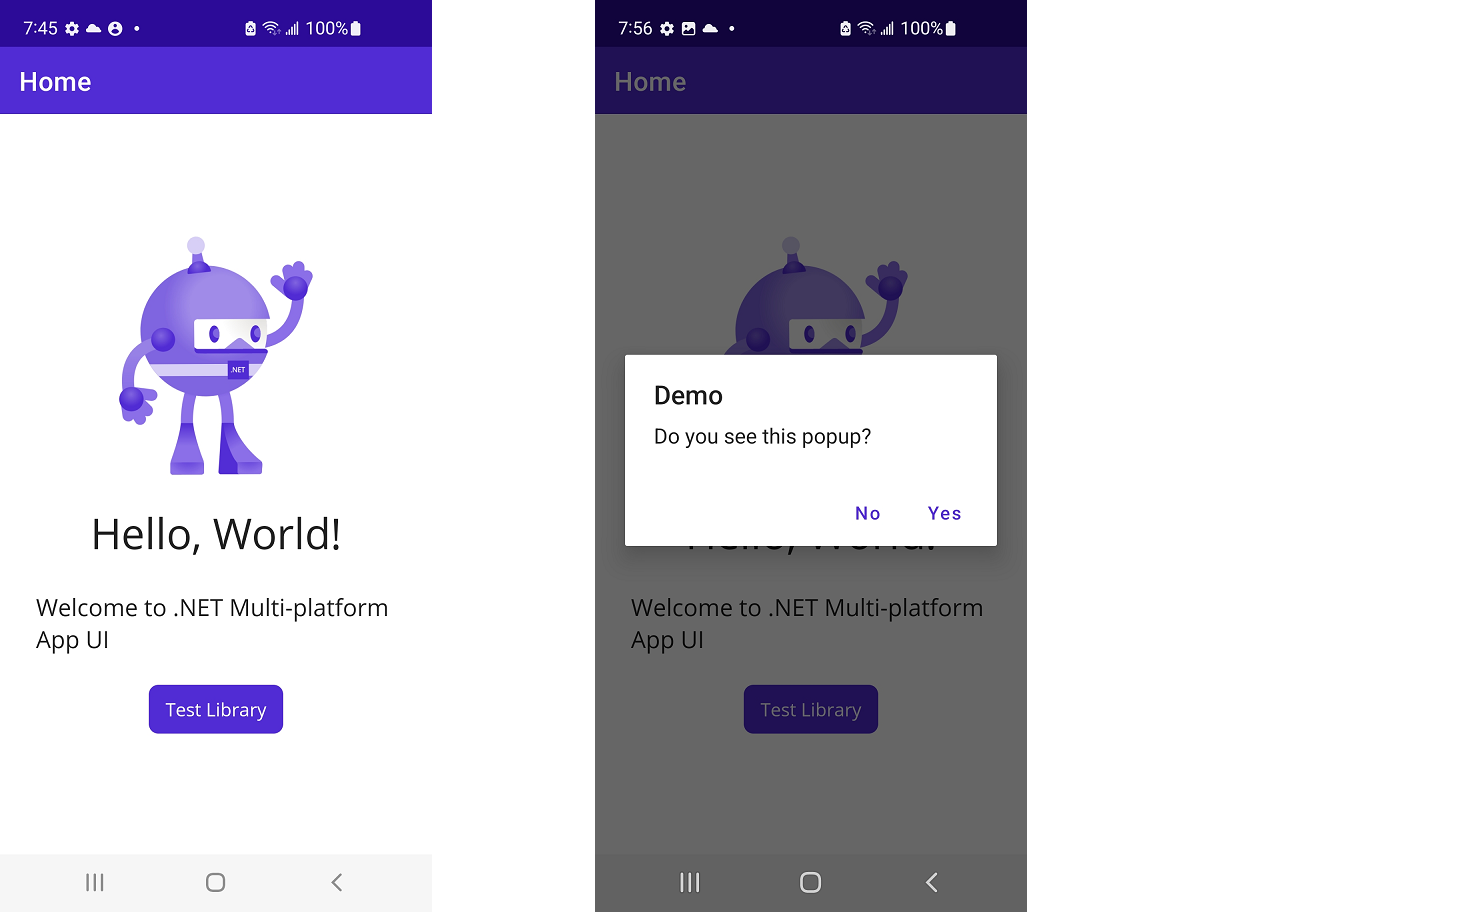
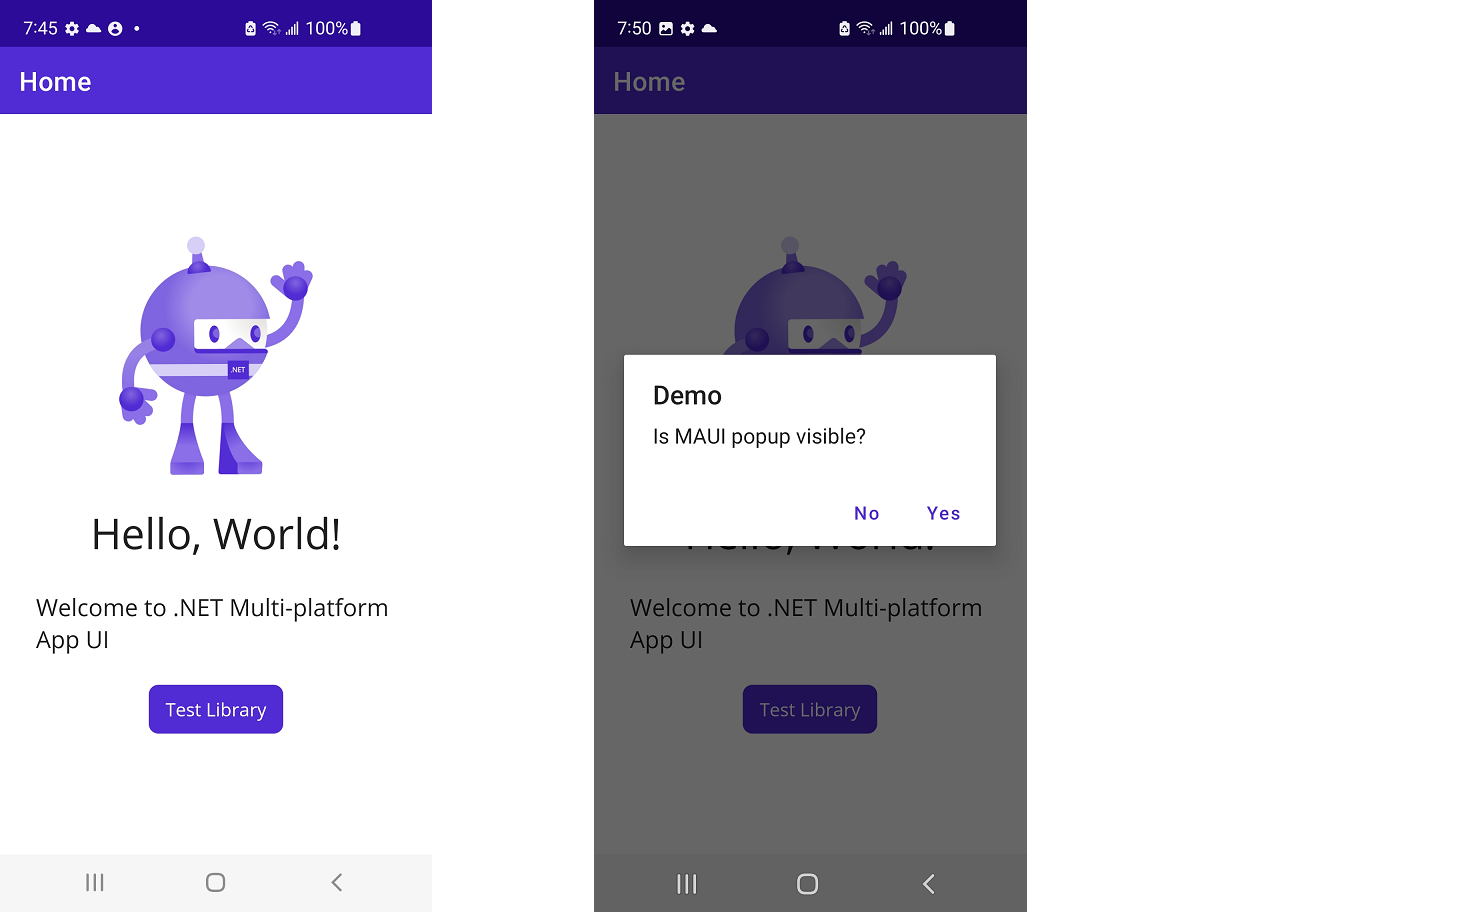
Sync readme with SO

diff --git a/net6-portable-library/BusinessLogic.cs b/net6-portable-library/BusinessLogic.cs
@@ -1,22 +1,30 @@
-using System;
-using System.Collections.Generic;
-using System.Diagnostics;
-using System.Text;
-using System.Threading.Tasks;
+    using System.Diagnostics;
+    using System.Threading.Tasks;
 
-namespace net6_portable_library
-{
-    public abstract class BusinessLogic
+    namespace net6_portable_library
     {
-        protected abstract Task<bool> DisplayAlert(string title, string message, string accept, string cancel);
-        public async Task<bool> TestPopup()
+        public enum RuntimePlatform
         {
-            bool result = await DisplayAlert(
-                title: "Demo", 
-                message: "Do you see this popup?", accept: "Yes", cancel: "No");
+            WinOS,
+            Android,
+            iOS,
+            Web,
+            MAUI,
+        }
+        public abstract class BusinessLogic
+        {
 
-            Debug.WriteLine($"Dialog returned {result}");
-            return result;
+            public BusinessLogic(RuntimePlatform platform) => RuntimePlatform = platform;
+            protected abstract Task<bool> DisplayAlert(string title, string message, string accept, string cancel);
+            public async Task<bool> TestPopup()
+            {
+                bool result = await DisplayAlert(
+                    title: "Demo", 
+                    message: $"Is {RuntimePlatform} popup visible?", accept: "Yes", cancel: "No");
+
+                Debug.WriteLine($"Dialog returned {result}");
+                return result;
+            }
+            public RuntimePlatform RuntimePlatform { get; }
         }
     }
-}

diff --git a/maui-client-of-portable-library/MainPage.xaml.cs b/maui-client-of-portable-library/MainPage.xaml.cs
@@ -11,7 +11,7 @@ namespace maui_client_of_portable_library
             InitializeComponent();
         }
         // Consume library
-        BusinessLogic _lib = new PlatformBusinessLogic();
+        BusinessLogic _lib = new PlatformBusinessLogic(RuntimePlatform.MAUI);
 
         private void onClickTestLibrary(object sender, EventArgs e)
         {
@@ -20,6 +20,8 @@ namespace maui_client_of_portable_library
     }
     class PlatformBusinessLogic : BusinessLogic
     {
+        public PlatformBusinessLogic(RuntimePlatform platform) : base(platform) { }
+
         protected override async Task<bool> DisplayAlert(string title, string message, string accept, string cancel)
         {
             return await Shell.Current.CurrentPage.DisplayAlert(title, message, accept, cancel);

diff --git a/platform-client-of-portable-library.WinForms/MainForm.cs b/platform-client-of-portable-library.WinForms/MainForm.cs
@@ -17,10 +17,12 @@ namespace platform_client_of_portable_library.WinForms
             _ = _lib.TestPopup();
         }
         // Consume library
-        BusinessLogic _lib = new PlatformBusinessLogic();
+        BusinessLogic _lib = new PlatformBusinessLogic(RuntimePlatform.WinOS);
     }
     class PlatformBusinessLogic : BusinessLogic
     {
+        public PlatformBusinessLogic(RuntimePlatform platform) : base(platform) { }
+
         protected override async Task<bool> DisplayAlert(string title, string message, string accept, string cancel)
         {
             var buttons = $"{accept}.{cancel}".ToUpper();

diff --git a/README.md b/README.md
@@ -1,75 +1,84 @@
-It's absolutely OK for a portable library to rely on the platform to do things. For example, it's not a stretch that the portable library might want to display a message box prompt. All that's needed is a way for the platform client to inject the dependency somehow.
+I do this kind of thing a lot with my apps that are cross-platform between WinForms and things like Xamarin for example. One of the easier ways I've found to do this is to make the portable library class `abstract`, compelling the client to inherit the class supplying the platform dependent code. It can also be handy to make your client identify itself with a `RuntimePlatform` enum. Alternatively, `virtual` methods would work but can produce "silent fails" unless they throw `NotImplementedException` at which point why not `abstract` it.
 
-One of the easier ways I've found to do this is to simply make the library class abstract, compelling the client to inherit the class supplying the platform dependent code:
+    using System.Diagnostics;
+    using System.Threading.Tasks;
 
     namespace net6_portable_library
     {
+        public enum RuntimePlatform
+        {
+            WinOS,
+            Android,
+            iOS,
+            Web,
+            MAUI,
+        }
         public abstract class BusinessLogic
         {
-            protected abstract Task<bool> DisplayAlert(
-                string title, 
-                string message, 
-                string accept, 
-                string cancel);
 
+            public BusinessLogic(RuntimePlatform platform) => RuntimePlatform = platform;
+            protected abstract Task<bool> DisplayAlert(string title, string message, string accept, string cancel);
             public async Task<bool> TestPopup()
             {
                 bool result = await DisplayAlert(
                     title: "Demo", 
-                    message: "Do you see this popup?", accept: "Yes", cancel: "No");
+                    message: $"Is {RuntimePlatform} popup visible?", accept: "Yes", cancel: "No");
 
                 Debug.WriteLine($"Dialog returned {result}");
                 return result;
             }
+            public RuntimePlatform RuntimePlatform { get; }
         }
     }
 
 ***
+Another option I've had success with is having `interface` or `delegate` members  in the PCL lib that the platform-specific client can populate.
+
+***
 **WinForms client**
 
-![screenshot]
+[![winforms client][1]][1]
 
     using System;
     using System.Threading.Tasks;
     using System.Windows.Forms;
     using net6_portable_library;
 
-    namespace platform_client_of_portable_library.WinForms
+    public partial class MainForm : Form
     {
-        public partial class MainForm : Form
+        public MainForm()
         {
-            public MainForm()
-            {
-                InitializeComponent();
-                buttonTestLibrary.Click += onClickTestLibrary;
-            }
-            private void onClickTestLibrary(object sender, EventArgs e)
-            {
-                _ = _lib.TestPopup();
-            }
-            // Consume library
-            BusinessLogic _lib = new PlatformBusinessLogic();
+            InitializeComponent();
+            buttonTestLibrary.Click += onClickTestLibrary;
         }
-        class PlatformBusinessLogic : BusinessLogic
+        private void onClickTestLibrary(object sender, EventArgs e)
         {
-            public override async Task<bool> DisplayAlert(string title, string message, string accept, string cancel)
+            _ = _lib.TestPopup();
+        }
+        // Consume library
+        BusinessLogic _lib = new PlatformBusinessLogic(RuntimePlatform.WinOS);
+    }
+    class PlatformBusinessLogic : BusinessLogic
+    {
+        public PlatformBusinessLogic(RuntimePlatform platform) : base(platform) { }
+
+        protected override async Task<bool> DisplayAlert(string title, string message, string accept, string cancel)
+        {
+            var buttons = $"{accept}.{cancel}".ToUpper();
+            switch (buttons) 
             {
-                var buttons = $"{accept}.{cancel}".ToUpper();
-                switch (buttons) 
-                {
-                    case "YES.NO":
-                        bool result = false;
-                        await Task.Run(() =>
-                        {
-                            result = DialogResult.Yes.Equals
-                            (
-                                MessageBox.Show(text: message, caption: title, MessageBoxButtons.YesNo)
-                            );
-                        });
-                        return result;
-                    default:
-                        throw new NotImplementedException($"TODO: Handler for {buttons}.");
-                }
+                case "YES.NO":
+                    bool result = false;
+                    await Task.Run(() =>
+                    {
+                        result = DialogResult.Yes.Equals
+                        (
+                            MessageBox.Show(text: message, caption: title, MessageBoxButtons.YesNo)
+                        );
+                    });
+                    return result;
+                default:
+                    throw new NotImplementedException($"TODO: Handler for {buttons}.");
             }
         }
     }
@@ -77,9 +86,7 @@ One of the easier ways I've found to do this is to simply make the library class
 ***
 **Android client**
 
-![screenshot]
-
-    using net6_portable_library;
+[![maui client][2]][2]
 
     namespace maui_client_of_portable_library
     {
@@ -92,7 +99,7 @@ One of the easier ways I've found to do this is to simply make the library class
                 InitializeComponent();
             }
             // Consume library
-            BusinessLogic _lib = new PlatformBusinessLogic();
+            BusinessLogic _lib = new PlatformBusinessLogic(RuntimePlatform.MAUI);
 
             private void onClickTestLibrary(object sender, EventArgs e)
             {
@@ -101,9 +108,15 @@ One of the easier ways I've found to do this is to simply make the library class
         }
         class PlatformBusinessLogic : BusinessLogic
         {
-            public override async Task<bool> DisplayAlert(string title, string message, string accept, string cancel)
+            public PlatformBusinessLogic(RuntimePlatform platform) : base(platform) { }
+
+            protected override async Task<bool> DisplayAlert(string title, string message, string accept, string cancel)
             {
                 return await Shell.Current.CurrentPage.DisplayAlert(title, message, accept, cancel);
             }
         }
     }
+
+
+  [1]: https://i.stack.imgur.com/z7dif.png
+  [2]: https://i.stack.imgur.com/DiFL6.png
